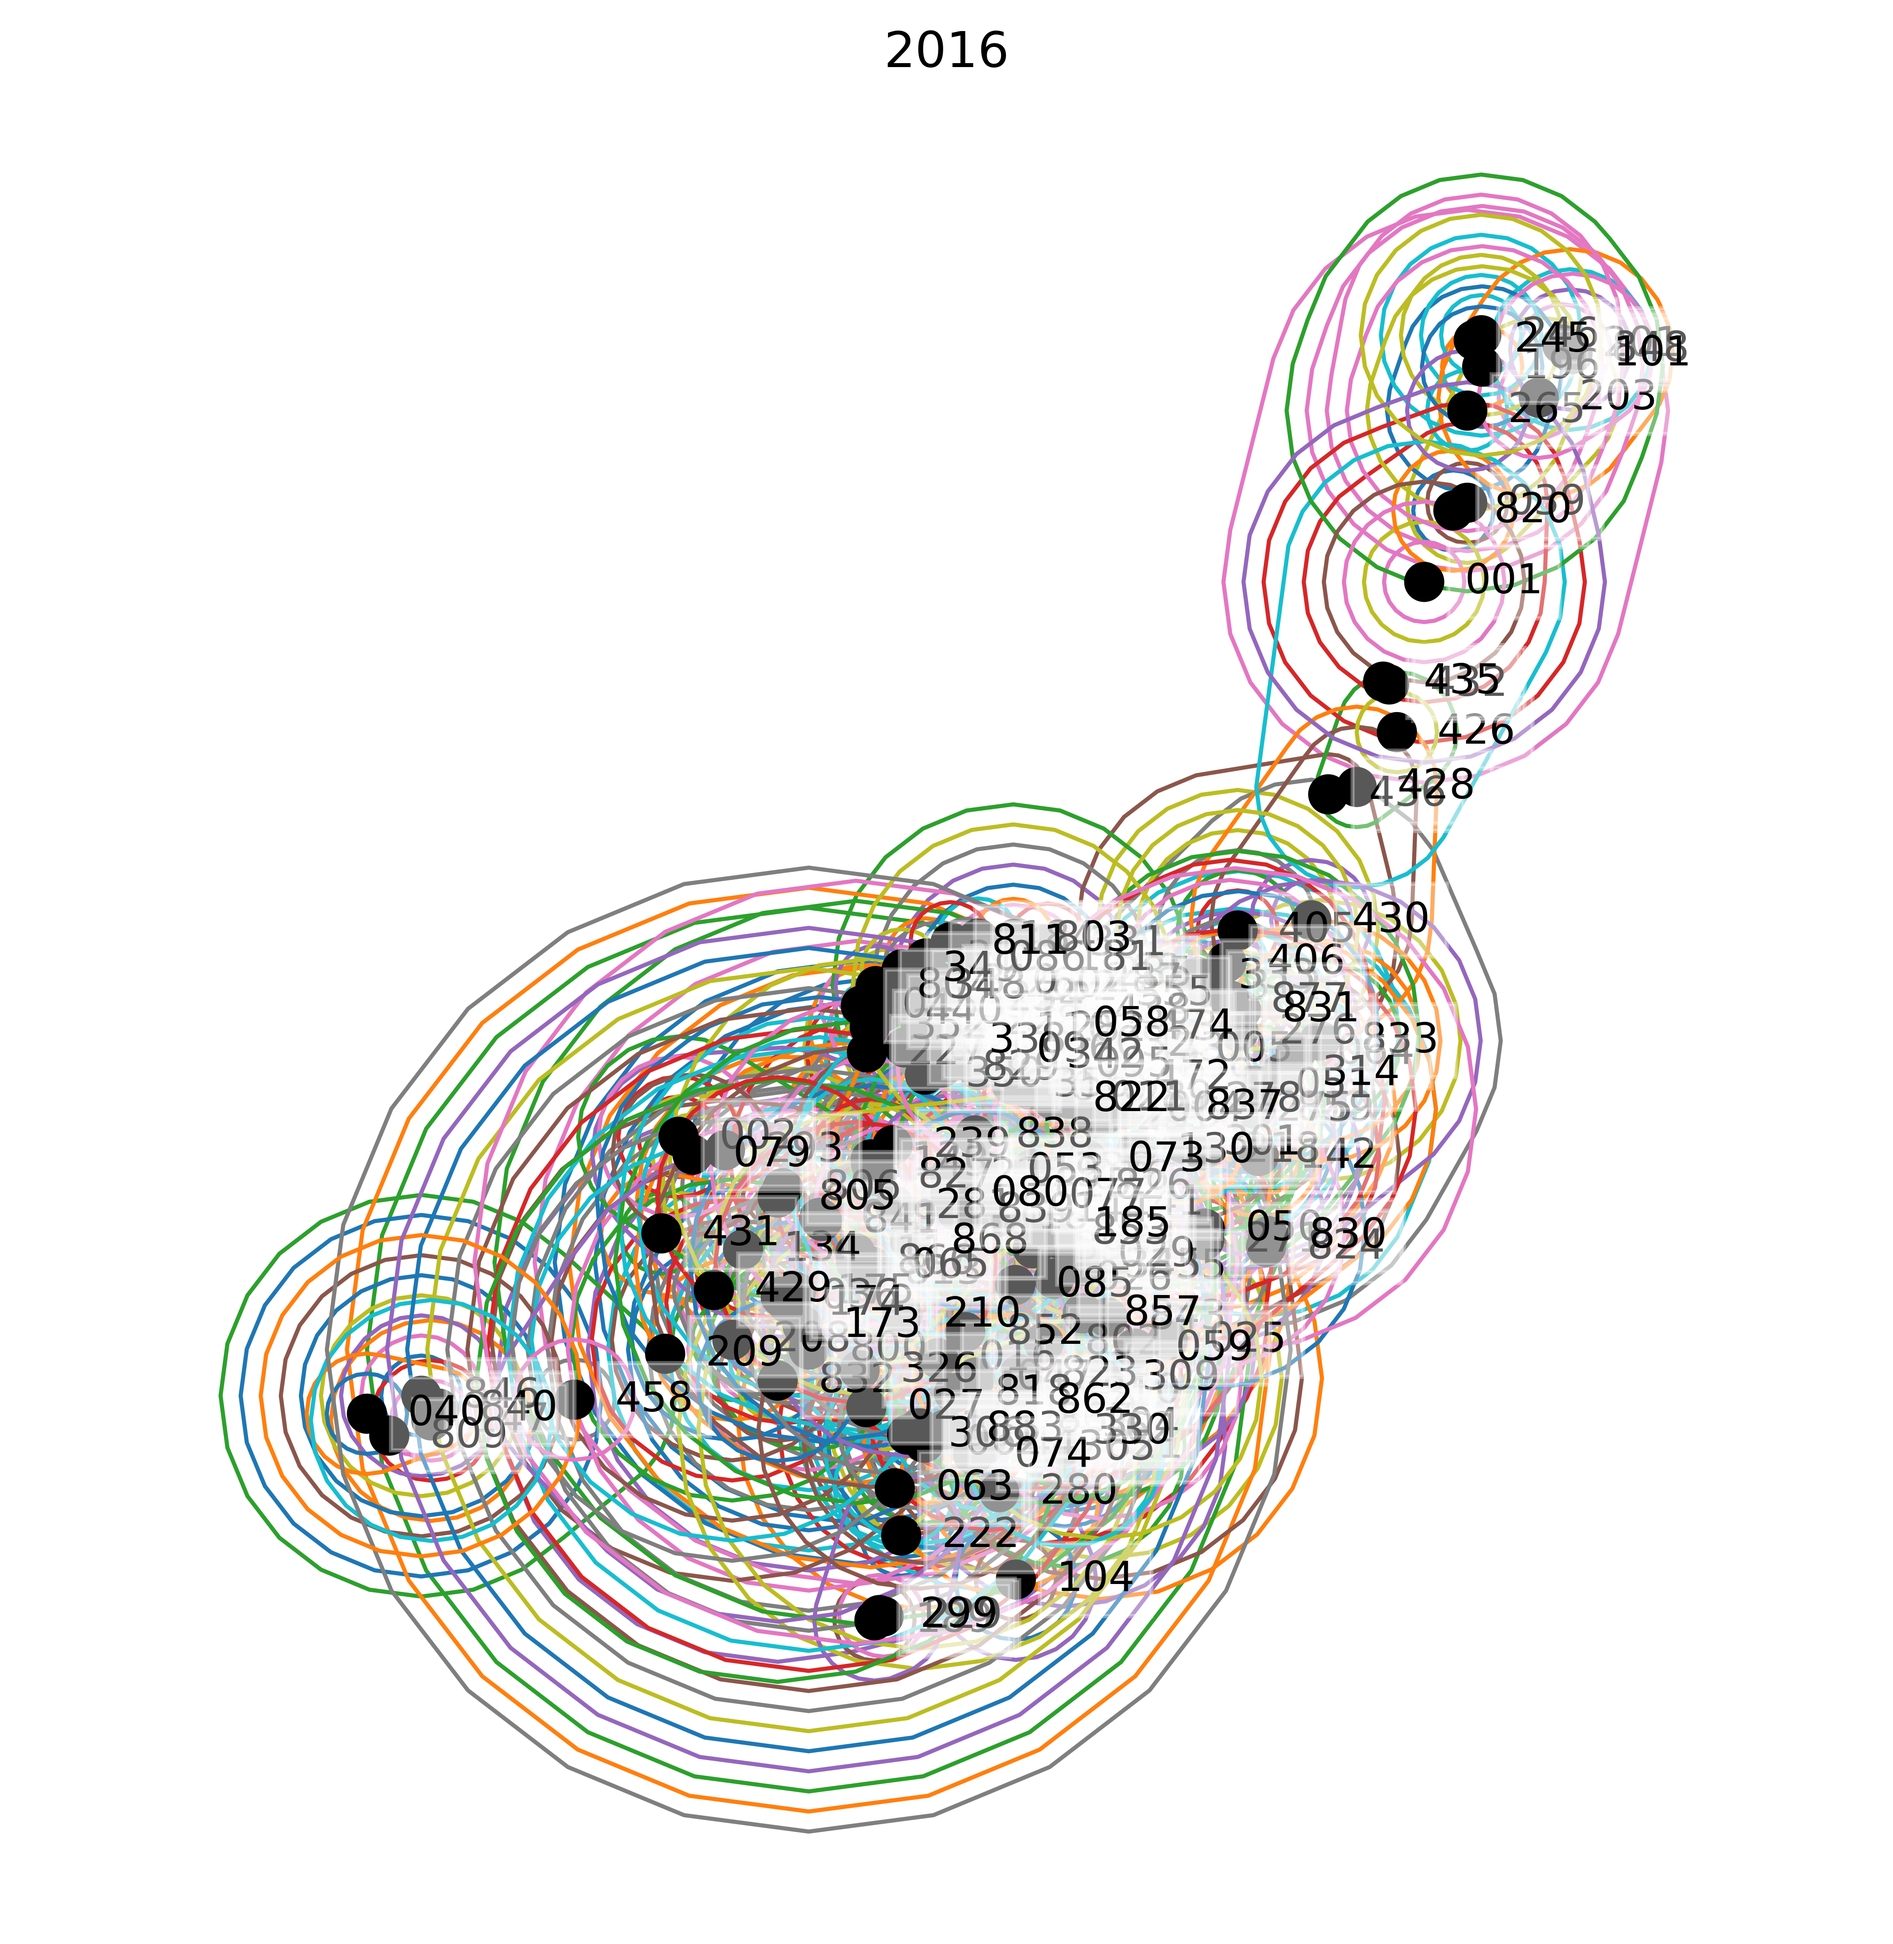
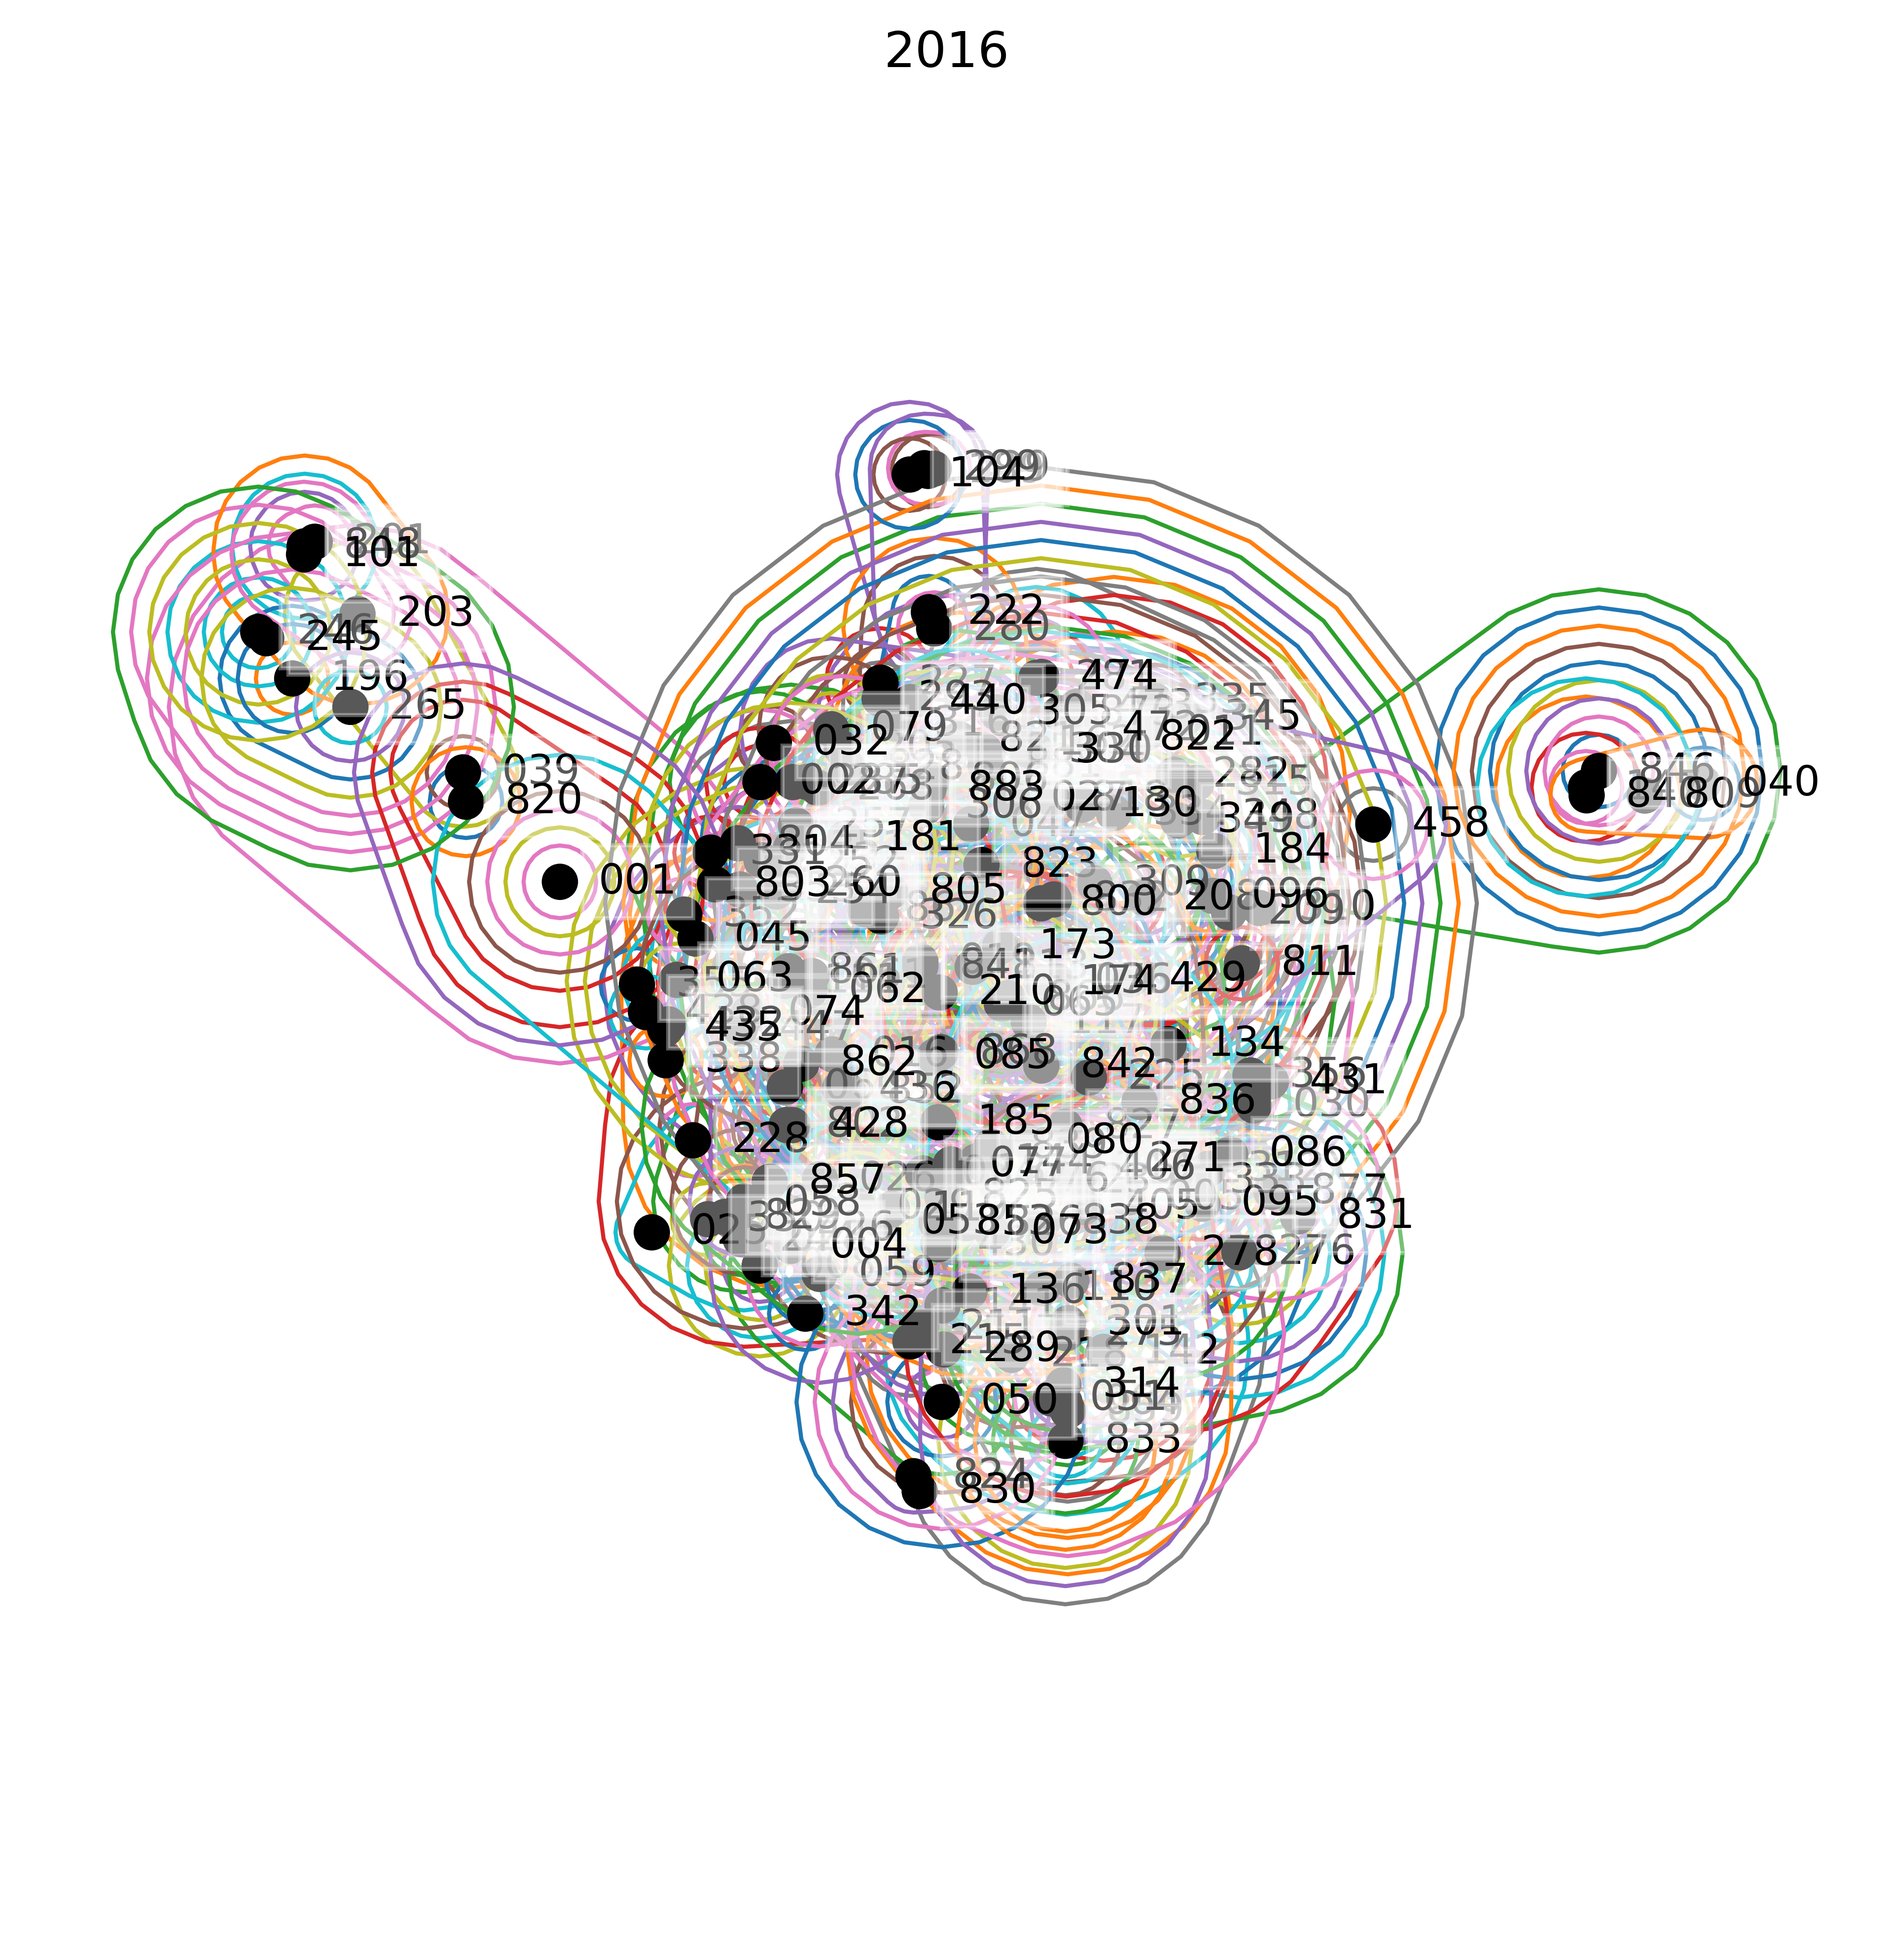
made graphs for resident and affiliation matricies, added resident code, made etxt files with graph information by year

Changed region(s): [[0.062, 0.0936, 0.9609, 0.9361]]

diff --git a/src/hypergraphResidents.py b/src/hypergraphResidents.py
@@ -1,0 +1,77 @@
+import hypernetx as hnx
+import pandas as pd
+import matplotlib.pyplot as plt
+import networkx as nx
+import warnings
+warnings.simplefilter('ignore')
+
+
+#import the resident csv
+
+resNames = f"data/resnames_20250922(in).csv"
+resDF = pd.read_csv(resNames, header=None,names=["elephant_id"])
+
+#pad the resident list with 00s to match the strings in AEaffmat, make sure the length of string is 3
+#create a set for matching (no duplicates)
+
+residents = set(f"{r:03d}" for r in resDF["elephant_id"])
+
+#dictionary of each years csv data
+dataframes = {}
+
+
+#load the affiliation data of each csv, dropping the observation day column
+
+for yr in range(2007, 2019):
+    filepath = f"data/AEaffmat{yr}.csv"
+    df = pd.read_csv(filepath).drop(columns=['obsday'])
+    dataframes[yr] = df
+
+
+#build the hyperedges from the affiliation matricies
+hypergraphTotalEdges = {}
+
+for yr in range(2007, 2019):
+    edges = {}
+    df = dataframes[yr]
+    for i, aff_row in df.iterrows():
+        #all elephants that were seen (1 in csv)
+        members = aff_row[aff_row == 1].index.tolist()
+        #if the elephant is in the resident list
+        if any(e in residents for e in members):
+            edges[f"group{i}"] = members
+    hypergraphTotalEdges[yr] = edges
+
+
+#-create a text file with readily available information about the hypergraph-
+
+# with open("resHyperInfo", "w", encoding = "utf-8") as f:
+#         f.write("Hypergraph information \n")
+#         f.write("nrows = number of nodes in the hypergraph.\n ncols = number of hyperedges in hypergraph. \n")
+
+#create hypergraph
+for yr in range(2007, 2019):
+    H = hnx.Hypergraph(hypergraphTotalEdges[yr])
+
+
+    #-for text file formatting-
+    #resHyperInfo = f"{yr} data : {hnx.info_dict(H)}"
+    
+    #append text file with each year's hypergraph information
+    # with open("resHyperInfo", "a", encoding = "utf-8") as f:
+    #     f.write(f"{resHyperInfo}. \n")
+
+
+    #create a fixed layout
+    B = H.bipartite()
+    
+    pos = hnx.drawing.rubber_band.layout_node_link(H, layout=nx.spring_layout, seed = 111)
+
+    hnx.draw(H, pos = pos, with_node_labels=True, with_edge_labels=False)
+    plt.title(str(yr))
+    
+
+    #uncomment when saving hypergraphs
+    #plt.savefig(f"resAffiliationMatrix{yr}.png", bbox_inches ='tight')
+    
+    plt.close()

diff --git a/src/hypergraphTotal.py b/src/hypergraphTotal.py
@@ -6,10 +6,11 @@ import warnings
 warnings.simplefilter('ignore')
 
 
-# Load the affiliation data of each csv, dropping the observation day column
-
+#dictionary of each years csv data
 dataframes = {}
 
+
+#load the affiliation data of each csv, dropping the observation day column
 for yr in range(2007, 2019):
     affiliation = {}
     filepath = f"data/AEaffmat{yr}.csv"
@@ -18,26 +19,49 @@ for yr in range(2007, 2019):
     dataframes[yr] = affiliation
 
 
-#Build the hyperedges from the affiliation matricies
+#build the hyperedges from the affiliation matricies
 hypergraphTotalEdges = {}
 
 for yr in range(2007, 2019):
     edges = {}
     for i, row in dataframes[yr].iterrows():
+        #all elephants that were seen (1 in csv)
         members = row[row == 1].index.tolist()
+        #edges of hypergraphs = groups seen together
         edges[f"group{i}"] = members
     hypergraphTotalEdges[yr] = edges
 
-#Create hypergraph
+#-create a text file with readily available information about the hypergraph-
+
+# with open("HyperInfo.txt", "w", encoding = "utf-8") as f:
+#     f.write("Hypergraph information \n")
+#     f.write("nrows = number of nodes in the hypergraph.\n ncols = number of hyperedges in hypergraph \n")
+
+
+#create hypergraph
 for yr in range(2007, 2019):
+
     H = hnx.Hypergraph(hypergraphTotalEdges[yr])
-    
+
+     #-for text file formatting-
+
+    #HyperInfo = f"{yr} data : {hnx.info_dict(H)}"
+
+    # #append text file with each year's hypergraph information
+    # with open("HyperInfo.txt", "a", encoding = "utf-8") as f:
+    #     f.write(f"{HyperInfo}. \n")
+
     #create a fixed layout
     B = H.bipartite()
-    pos = nx.spring_layout(B, iterations=500, seed=12)
+    #pos = nx.spring_layout(B, iterations=500, seed=12)
+    
+    pos = hnx.drawing.rubber_band.layout_node_link(H, G=None, layout=nx.spring_layout, seed = 111)
 
-    hnx.draw(H, pos = pos, with_node_labels=True, with_edge_labels=False)
+    hnx.draw(H, pos = pos, with_node_labels=False, with_edge_labels=False)
     plt.title(str(yr))
     
-    plt.savefig(f"AffiliationMatrix{yr}.png", dpi=600, bbox_inches= 'tight')
+    #uncomment when saving hypergraphs
+    #plt.savefig(f"AffiliationMatrix{yr}NOLABEL.png", dpi=600, bbox_inches= 'tight')
     plt.close()
+
+    
